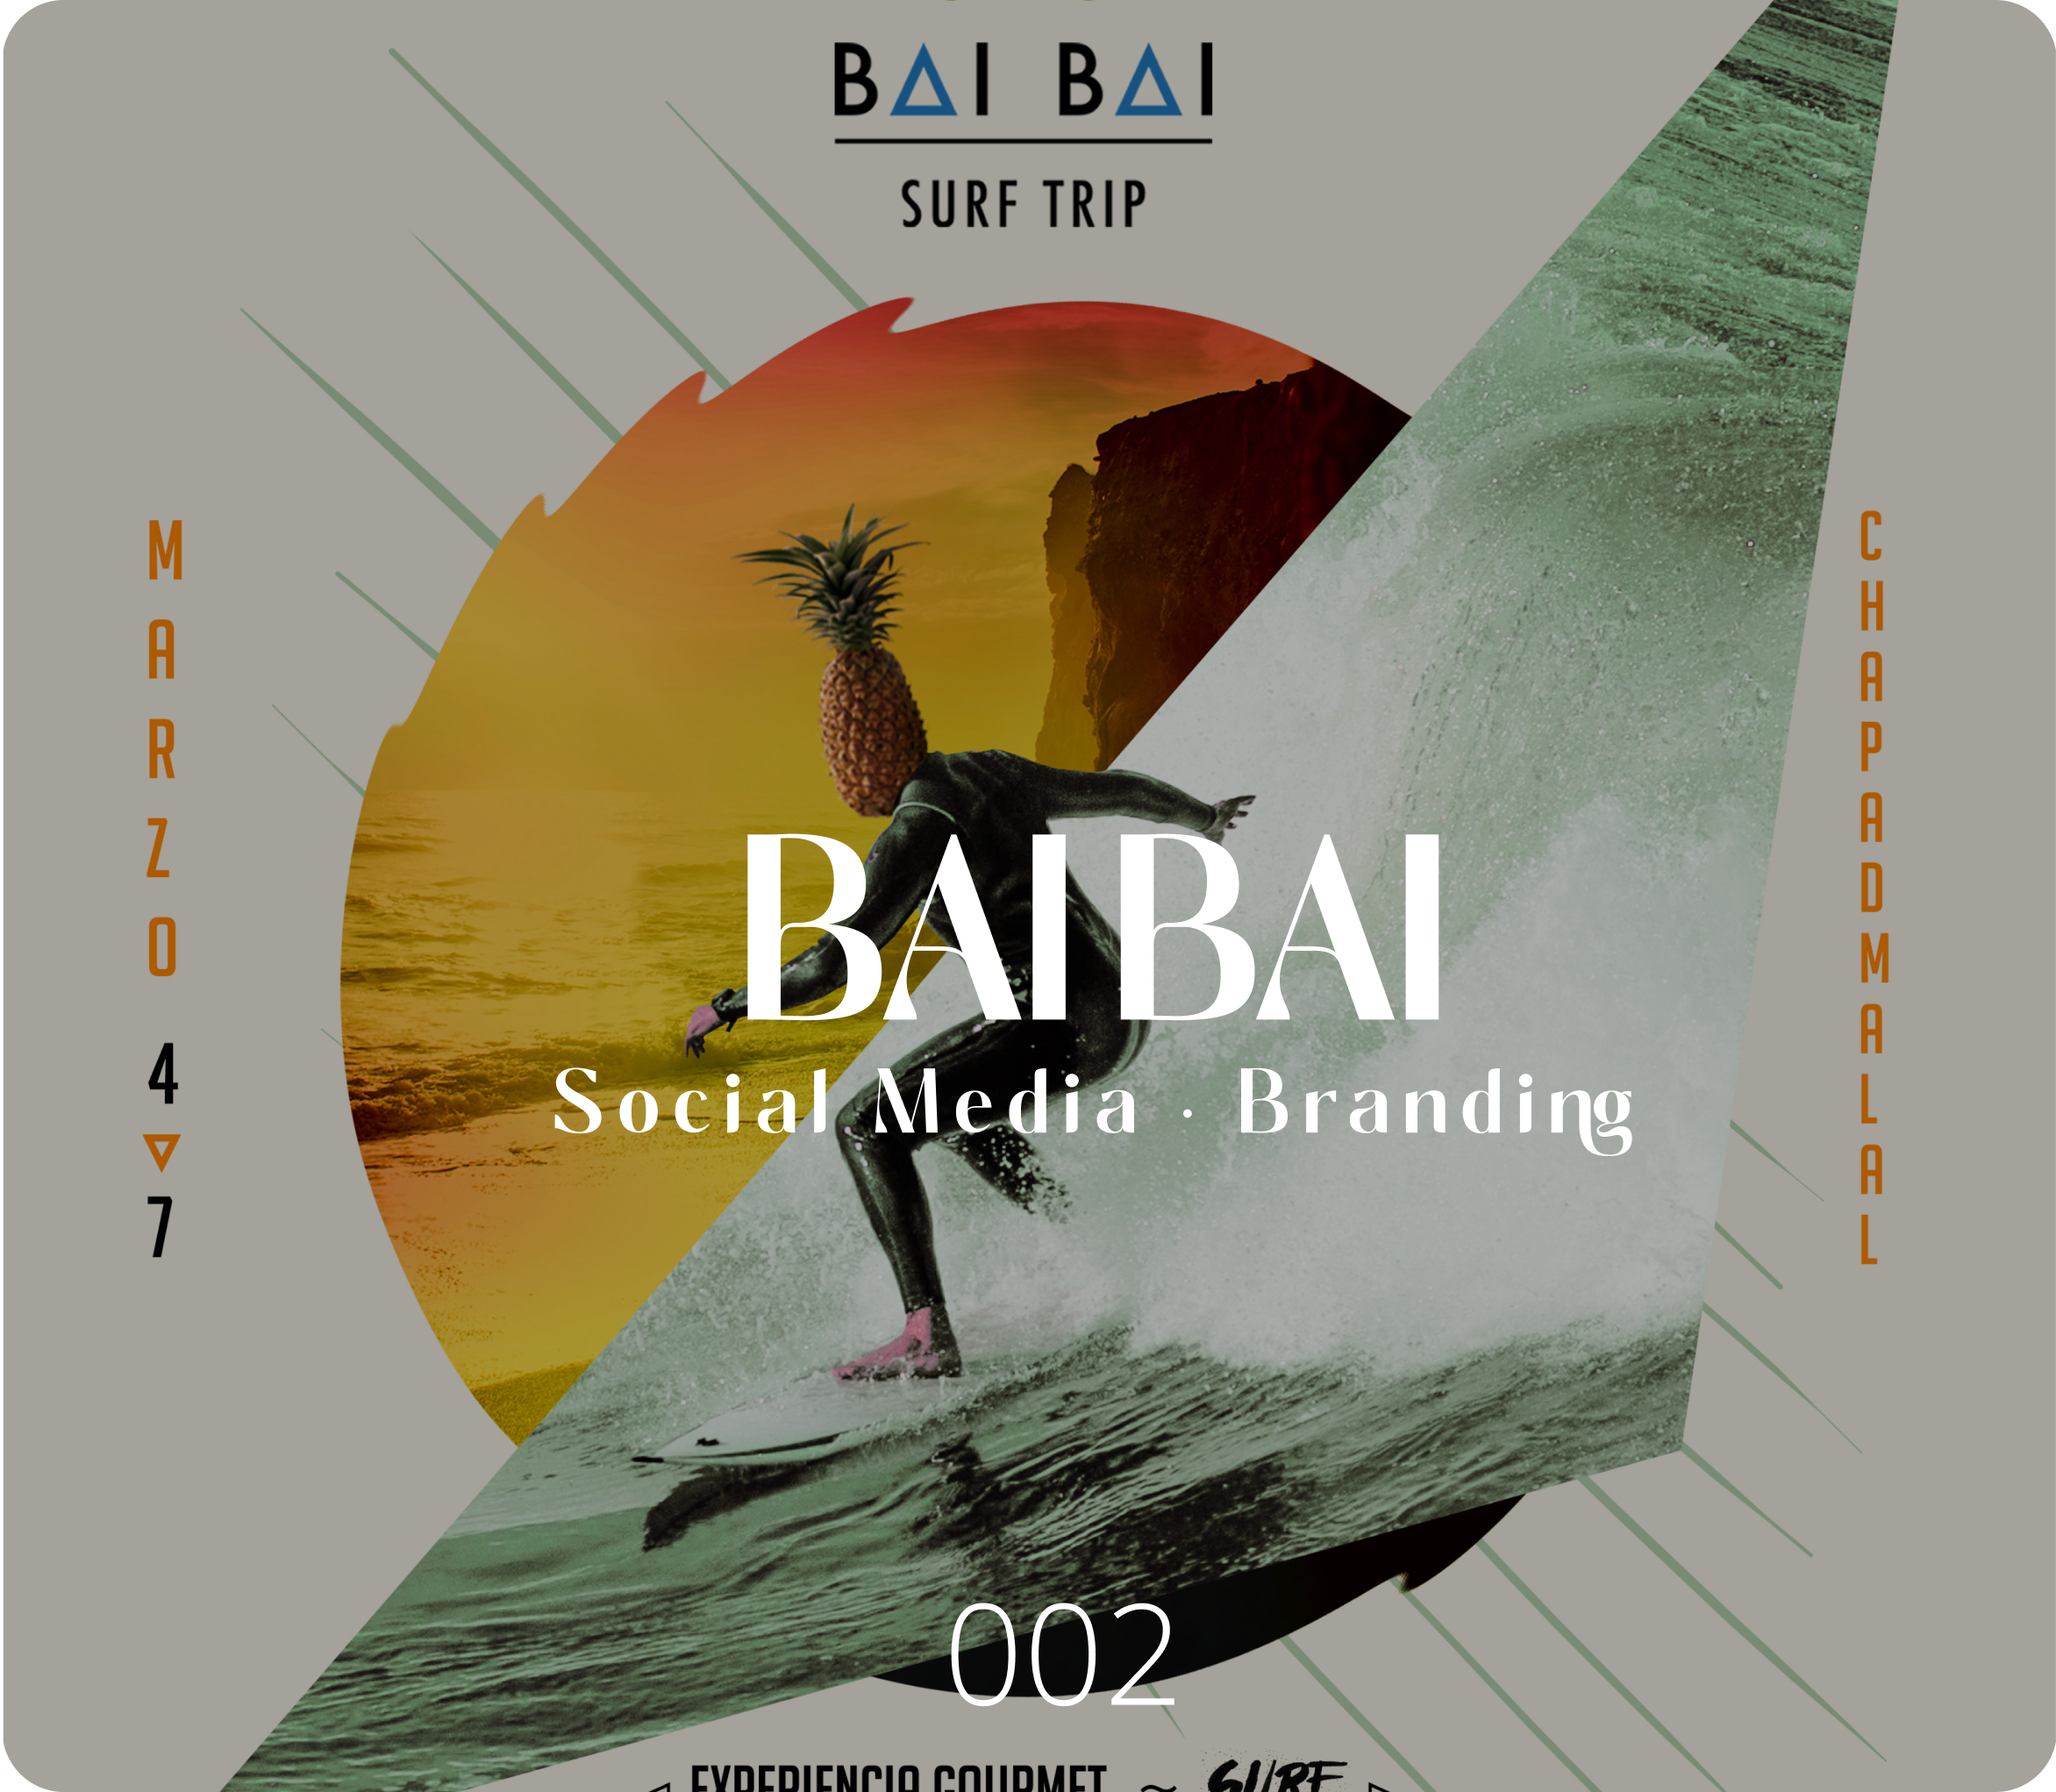
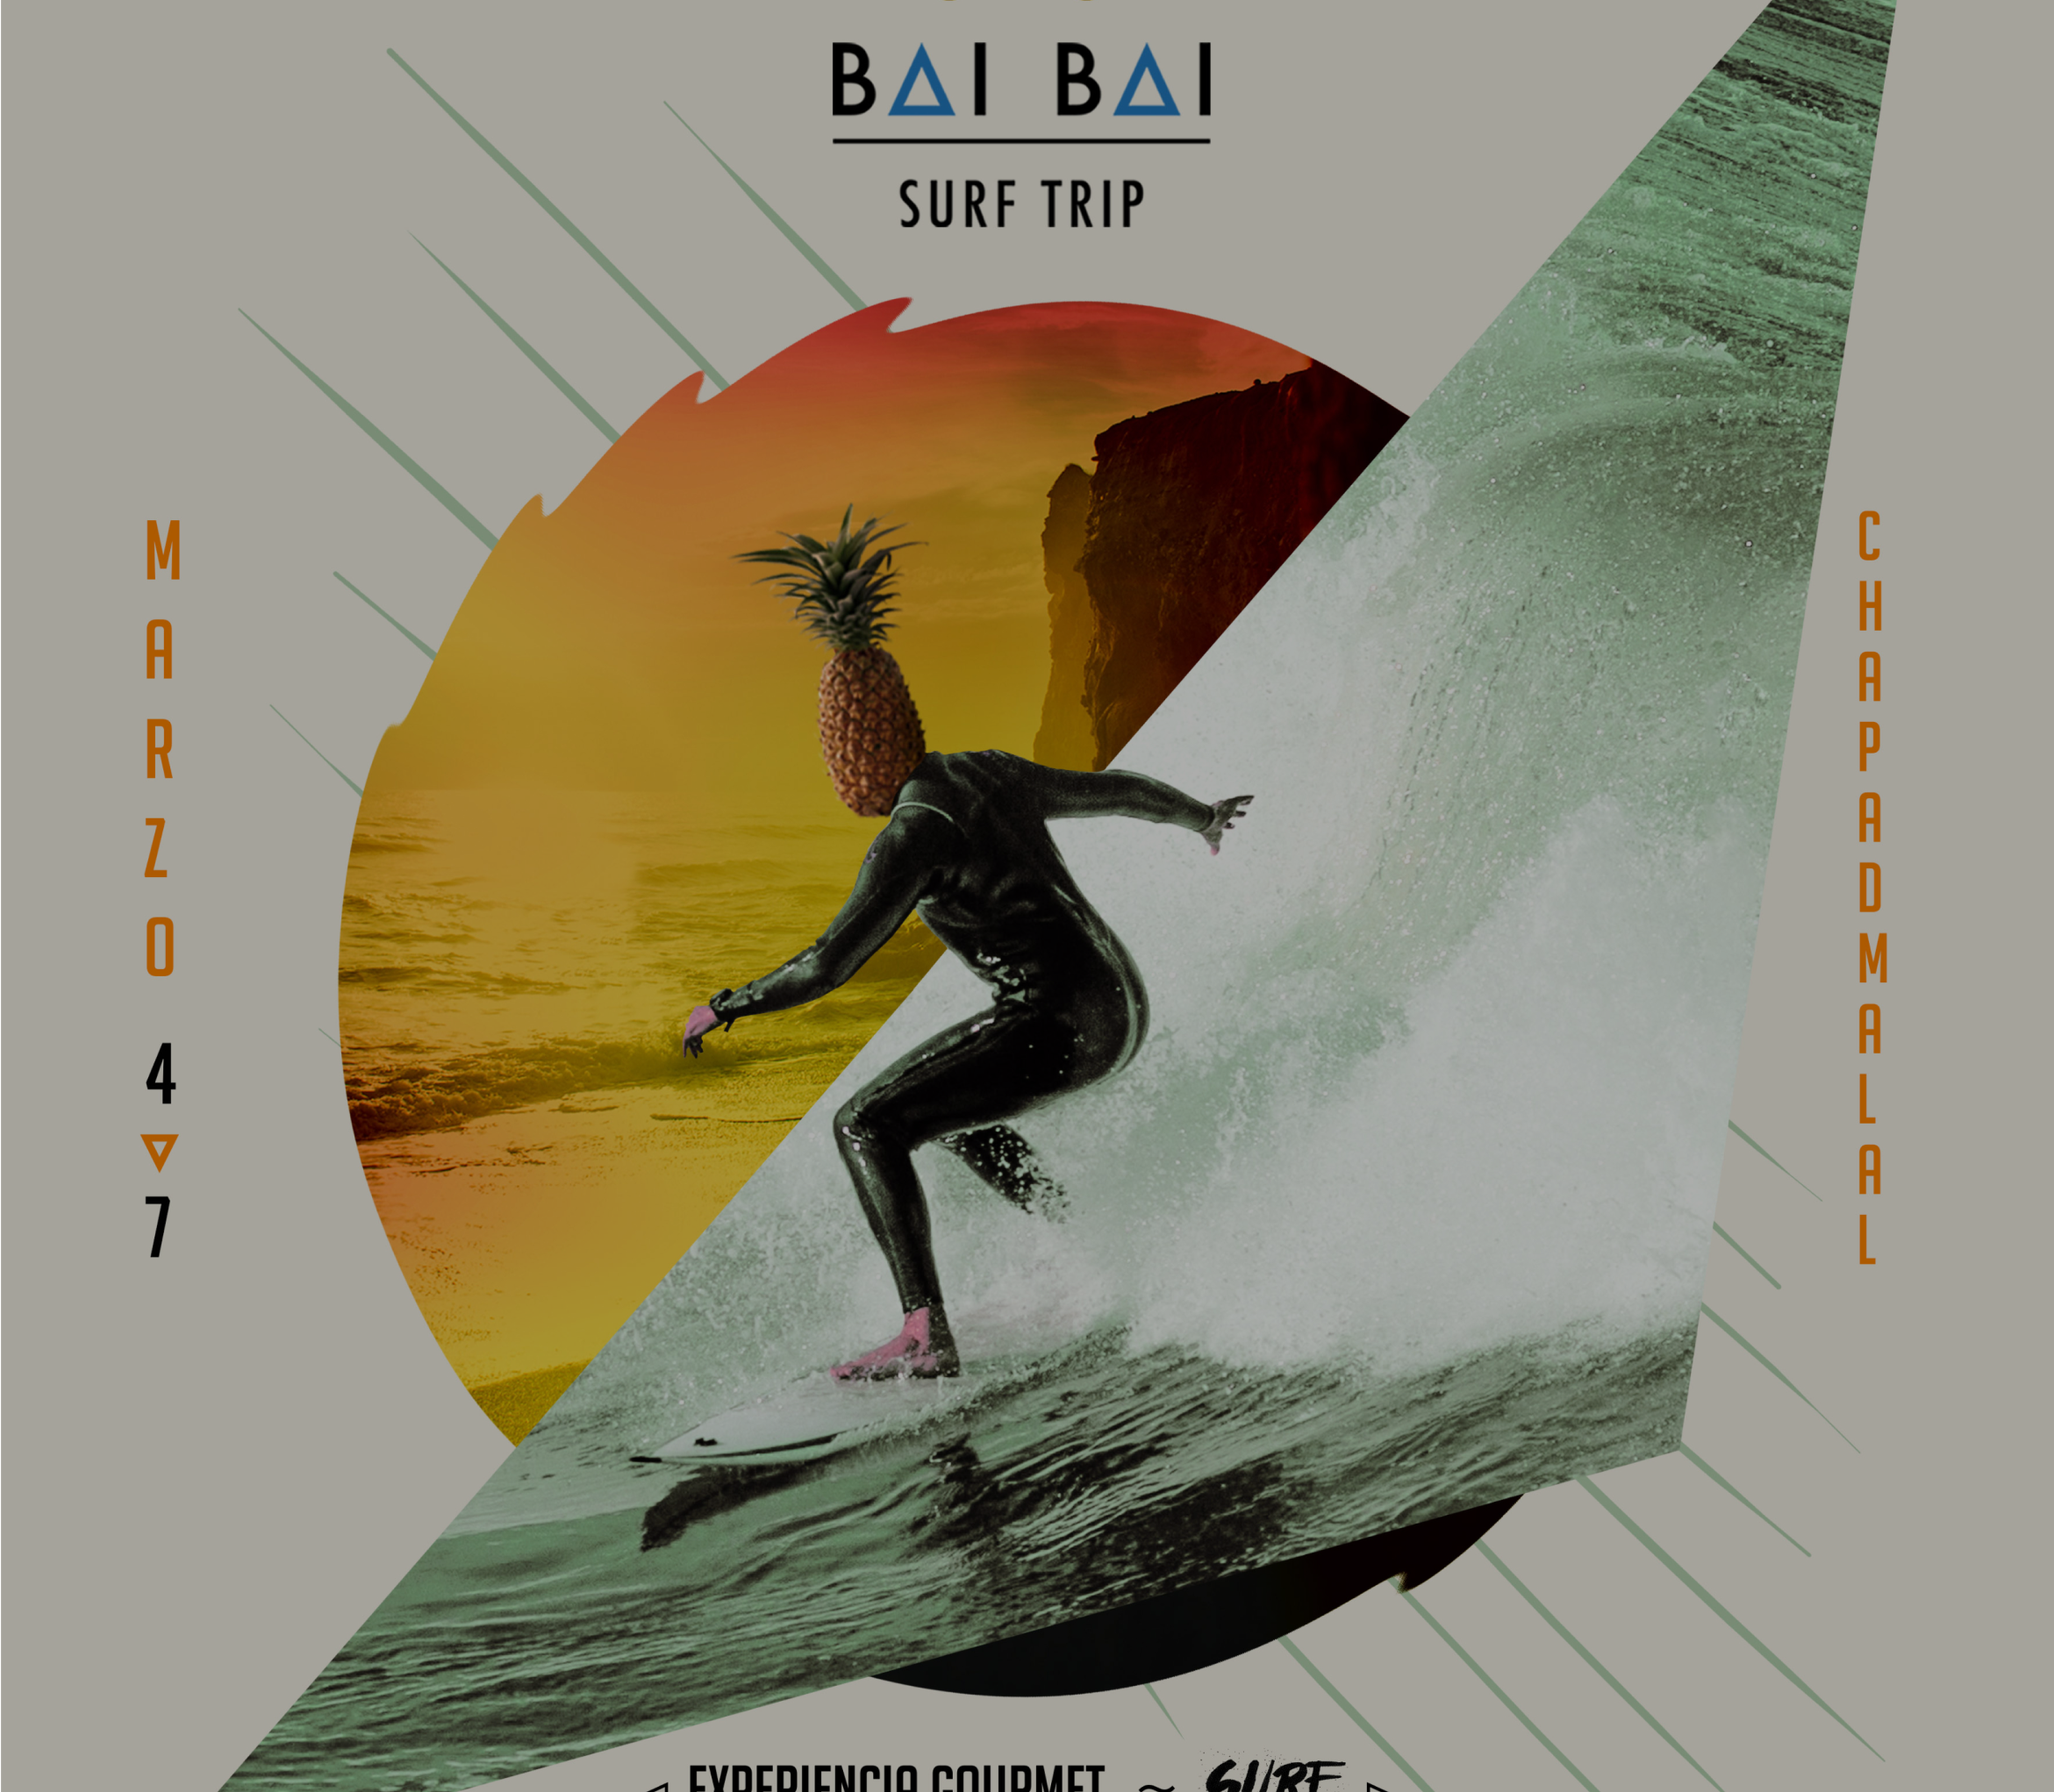
Finishing Feature projects and fixing responsiveness

diff --git a/src/sections/05-FeatureProjects/FeatureProjects.tsx b/src/sections/05-FeatureProjects/FeatureProjects.tsx
@@ -1,11 +1,31 @@
 import React from 'react';
 import './FeatureProjects.css';
-import {Typography} from '../../assets/typography';
+import {Typography, TypographyHeader} from '../../assets/typography';
 import {theme} from '../../assets/theme';
 import Slider from 'react-slick';
 
+type Poster = {
+  title: string;
+  tags: string[];
+  img: string;
+  url: string;
+};
+
 export const FeatureProjects = () => {
-  const posters: string[] = ['BaiBaiProject.png', 'VirtualDotProject.png'];
+  const posters: Poster[] = [
+    {
+      img: 'VirtualDotProject.png',
+      title: 'VIRTUAL DOT',
+      tags: ['Branding', 'Web', 'Newsletter'],
+      url: '',
+    },
+    {
+      img: 'BaiBaiProject.png',
+      title: 'BAI BAI',
+      tags: ['Social Media', 'Branding'],
+      url: '',
+    },
+  ];
 
   const proyectsTitleStyles = {
     fontSize: '60px',
@@ -14,36 +34,89 @@ export const FeatureProjects = () => {
     marginBottom: '0px',
   };
 
+  const titleStyles = {
+    fontSize: '100px',
+    fontWeight: '700',
+    color: theme.text.main,
+    margin: 0,
+    lineHeight: '1',
+  };
+
+  const tagStyles = {
+    fontSize: '30px',
+    color: theme.text.main,
+    letterSpacing: '2px',
+    margin: 0,
+  };
+
+  const numberPostStyle = {
+    fontSize: '80px',
+    fontWeight: '100',
+    color: theme.text.main,
+    margin: 0,
+    letterSpacing: '2px',
+  };
+
   const settings = {
-    infinite: false,
-    speed: 300,
+    // infinite: true
+    speed: 3000,
+    // autoplay: true,
     arrows: false,
     focusOnSelect: false,
-    autoplay: true,
-    centerMode: true,
-    slidesToShow: 1,
-    responsive: [
-      {
-        breakpoint: 768,
-        settings: {
-          slidesToShow: 1,
-        },
-      },
-    ],
+    slidesToShow: 1.9,
   };
 
   return (
     <div className="featuredProjects">
-      <Typography style={proyectsTitleStyles}>FEATURED PROJECTS</Typography>
+      <div className="titleProjects">
+        <Typography style={proyectsTitleStyles}>FEATURED PROJECTS</Typography>
+      </div>
       <Slider className="logoSlider" {...settings}>
         {posters.map((poster, index) => (
-          <div className="logoContainer">
+          <div className="logoContainerProjects">
             <img
               key={index}
-              src={require(`../../assets/img/${poster}`)}
-              alt={poster}
+              src={require(`../../assets/img/${poster.img}`)}
+              alt={poster.title}
               className="logo"
             />
+
+            <div className="infoProject">
+              <TypographyHeader style={titleStyles}>
+                {poster.title}
+              </TypographyHeader>
+
+              <div className="tagsProjects">
+                {poster.tags.map((tag, index) => {
+                  const isLastTag = index === poster.tags.length - 1;
+
+                  if (!isLastTag) {
+                    return (
+                      <div className="pointTag">
+                        <TypographyHeader style={tagStyles} key={index}>
+                          {tag}
+                        </TypographyHeader>
+                        <TypographyHeader
+                          style={tagStyles}
+                          key={'point' + index}>
+                          .
+                        </TypographyHeader>
+                      </div>
+                    );
+                  }
+
+                  return (
+                    <TypographyHeader style={tagStyles}>{tag}</TypographyHeader>
+                  );
+                })}
+              </div>
+            </div>
+
+            <div className="numberProject">
+              <Typography style={numberPostStyle}>{`00${
+                index + 1
+              }_`}</Typography>
+            </div>
           </div>
         ))}
       </Slider>

diff --git a/src/sections/05-FeatureProjects/FeatureProjects.css b/src/sections/05-FeatureProjects/FeatureProjects.css
@@ -1,33 +1,87 @@
 .featuredProjects {
-  width: 100%;
+  width: 100vw;
   position: relative;
   margin-top: 100px;
+  margin-bottom: 200px;
 }
 
 .logoSlider {
   height: 800px;
 }
 
+.titleProjects {
+  padding: 0 10%;
+  margin-bottom: 100px;
+}
+
 .logoSlider > *:focus {
   outline: 0;
 }
 
-.logoContainer {
+.logoContainerProjects {
   display: flex;
   justify-content: center;
   align-items: center;
-  object-fit: contain;
-  width: 20vw;
-  height: 100%; /* Add this if your images are not already square */
-  position: absolute; /* Add this */
-  top: 50%; /* Add this */
-  left: 50%; /* Add this */
-  transform: translate(-50%, -50%); /* Add this */
+  height: 800px;
+  border-radius: 20px;
+  overflow: hidden;
+  position: relative;
+}
+
+.logoContainerProjects:hover {
+  cursor: pointer;
 }
 
 .logo {
-  object-fit: contain;
+  object-fit: cover;
   aspect-ratio: 1;
   height: 100%;
-  width: 100%; /* Add this */
+  width: 100%;
+}
+
+.featuredProjects .slick-slide {
+  margin-right: 30px;
+}
+
+.infoProject {
+  position: absolute;
+  top: 50%;
+  left: 50%;
+  transform: translate(-50%, -35%);
+  width: 100%;
+  display: flex;
+  justify-content: center;
+  align-items: center;
+  flex-direction: column;
+}
+
+.tagsProjects {
+  display: flex;
+  flex-direction: row;
+  justify-content: center;
+  width: 100%;
+}
+
+.pointTag {
+  display: flex;
+  flex-direction: row;
+  gap: 20px;
+  margin-right: 20px;
+}
+
+.numberProject {
+  position: absolute;
+  bottom: 0;
+  left: 50%;
+  transform: translate(-50%, 0%);
+}
+
+@media (min-width: 2000px) {
+  .logoSlider {
+    height: 1000px;
+  }
+
+  .logoContainerProjects {
+    height: 1000px;
+  }
 }

diff --git a/src/sections/06-ClientsOpinions/ClientsOpinions.css b/src/sections/06-ClientsOpinions/ClientsOpinions.css
@@ -1,5 +1,5 @@
 .clientsOpinionsContainer {
-  height: 1000px;
+  height: 800px;
   width: 100vw;
   overflow-x: visible;
   z-index: 9;
@@ -15,4 +15,10 @@
 
 .clientsOpinionsTitle {
   color: #dacaff;
+}
+
+@media (min-width: 2000px) {
+  .clientsOpinionsContainer {
+    height: 1000px;
+  }
 }

diff --git a/src/App.tsx b/src/App.tsx
@@ -21,7 +21,7 @@ function App() {
       <Experience />
       <Brands />
       <Versatility />
-      {/* <FeatureProjects /> */}
+      <FeatureProjects />
       <ClientsOpinions />
       <div className="getInTouchContainer">
         <ContactButton

diff --git a/src/sections/99-Footer/Footer.css b/src/sections/99-Footer/Footer.css
@@ -5,9 +5,8 @@
   color: #fff;
   text-align: left;
   line-height: 1.5;
-  letter-spacing: 0.5px;
   margin-top: 20px;
-  padding: 30px 300px 0 300px;
+  padding: 30px 13% 0 13%;
   z-index: 1;
   width: 100vw;
   height: 300px;

diff --git a/src/sections/03-Brands/Brands.css b/src/sections/03-Brands/Brands.css
@@ -43,3 +43,10 @@
 .logoContainer > * :focus {
   outline: 0;
 }
+
+@media (min-width: 2000px) {
+  .brands {
+    margin-top: 400px;
+    margin-bottom: 200px;
+  }
+}

diff --git a/src/sections/01-Welcome/Welcome.css b/src/sections/01-Welcome/Welcome.css
@@ -189,3 +189,9 @@
   margin-top: 85px;
   z-index: 1;
 }
+
+@media (min-width: 2000px) {
+  .containerWelcome {
+    height: 1200px;
+  }
+}
